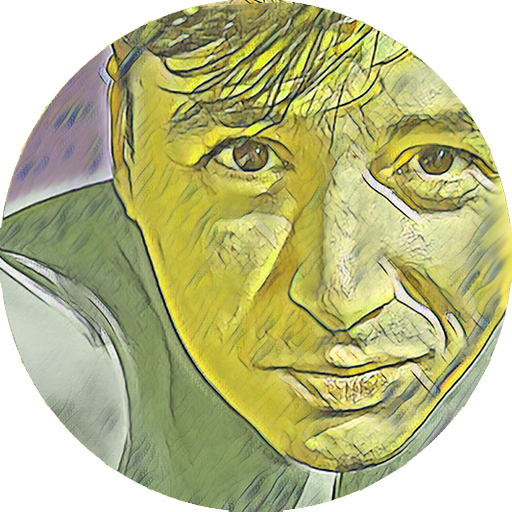
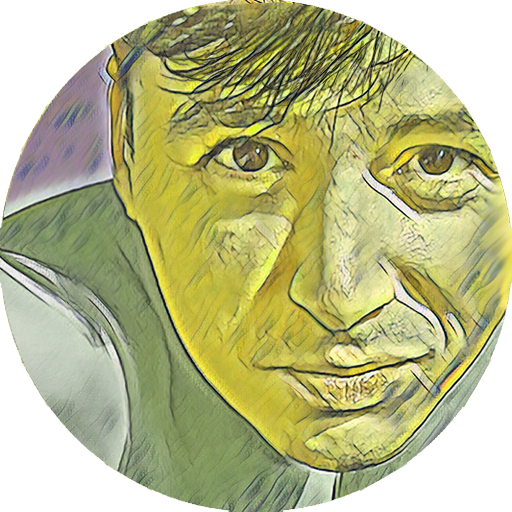
small vis tweaks

Changed region(s): [[0.3125, 0.0, 0.8125, 0.2188]]

diff --git a/css/style.css b/css/style.css
@@ -8,7 +8,7 @@ transition:all .25s ease;-moz-transition:all .25s ease;-webkit-transition:all .2
 
 }#porTitle{display:none;position:absolute;z-index:10;overflow:visible;width:522px;line-height:96px;right:81px;top:42px;padding-left:28px;padding-bottom:0;margin-top:.02em;padding-top:0;height:0;font-family:BebasNeuewebfont,DinBold,ChineseRocksRegular,sans-serif;font-size:156px;letter-spacing:.033em;color:rgb(248,248,248);background:transparent;pointer-events:all!important}#por-TitleBak:hover{margin-left:.002em;margin-top:-.1454em;cursor:default;transform:scale(1.0335,1.28);-webkit-transform:scale(1.0335,1.276);-moz-transform:scale(1.0335,1.276);-ms-transform:scale(1.0335,1.276);-o-transform:scale(1.0335,1.276)}#ttlCnt{overflow:visible;position:relative;float:left;top:16px;left:0;width:0;height:0;pointer-events:all}#ttl{margin-left:-232px;display:block;width:281px;height:171px;background:url(../images/tudor0.png);background-size:281px 171px;opacity:.83;filter:alpha(opacity = 83/*80*/);background-repeat:no-repeat;z-index:100;pointer-events:none}#ttlTextCnt{overflow:visible;position:absolute;z-index:102;float:left;display:block;top:0;width:0;height:0}.upperMaskLCD{position:absolute;z-index:7;top:-64px;right:0;left:-2345px;width:7680px;height:320px;margin-left:-960px;margin-right:-960px}
 
-#lcdBlock{width:50%;height:127%;margin-left:25%;margin-top:-30px;background:-moz-radial-gradient(at 50% 50.5%,ellipse cover,rgb(234,199,192)6%,hsl(310, 56%, 85%)25.5%,hsl(105,74%,81%)36%,hsl(55,100%,84%) 37%,rgb(133,255,167)41%,hsl(166,78%,70%)52%,rgb(171,196,253)61%,hsl(134,100%,88%)62%,rgb(125,255,208)68%);background:-webkit-radial-gradient(center,cover,rgb(234,199,192)6%,hsl(310, 56%, 85%)25.5%,hsl(105,74%,81%)36%,hsl(55,100%,84%) 37%,rgb(133,255,167)41%,hsl(166,78%,70%)52%,rgb(171,196,253)61%,hsl(134,100%,88%)62%,rgb(125,255,208)68%);background:radial-gradient(at 50% 50.5%,rgb(234,199,192)6%,hsl(310, 56%, 85%)25.5%,hsl(105,74%,81%)36%,hsl(55,100%,84%) 37%,rgb(133,255,167)41%,hsl(166,78%,70%)52%,rgb(171,196,253)61%,hsl(134,100%,88%)62%,rgb(125,255,208)68%);background-repeat:no-repeat;background-size:initial;/*background-position-y:93px;*/
+#lcdBlock{width:50%;height:127%;margin-left:25%;margin-top:-30px;background:-moz-radial-gradient(at 50% 50.5%,ellipse cover,rgb(234,199,192)6%,hsl(306, 41%, 83%)25.5%,hsl(105,74%,81%)36%,hsl(55,100%,84%) 37%,rgb(133,255,167)41%,hsl(166,78%,70%)52%,rgb(171,196,253)61%,hsl(134,100%,88%)62%,rgb(125,255,208)68%);background:-webkit-radial-gradient(center,cover,rgb(234,199,192)6%,hsl(306, 41%, 83%)25.5%,hsl(105,74%,81%)36%,hsl(55,100%,84%) 37%,rgb(133,255,167)41%,hsl(166,78%,70%)52%,rgb(171,196,253)61%,hsl(134,100%,88%)62%,rgb(125,255,208)68%);background:radial-gradient(at 50% 50.5%,rgb(234,199,192)6%,hsl(306, 41%, 83%)25.5%,hsl(105,74%,81%)36%,hsl(55,100%,84%) 37%,rgb(133,255,167)41%,hsl(166,78%,70%)52%,rgb(171,196,253)61%,hsl(134,100%,88%)62%,rgb(125,255,208)68%);background-repeat:no-repeat;background-size:initial;/*background-position-y:93px;*/
 	background-position-y: 63px;
     background-position-x: 577px;
     background-repeat-x: repeat;
@@ -20,7 +20,7 @@ transition:all .25s ease;-moz-transition:all .25s ease;-webkit-transition:all .2
 #navCnt{width:100%;height:400px;top:0;left:0;position:absolute}
 
 #navigation:hover span .upperMaskLCD #lcdBlock,#lcdBlock:hover
-{background:rgb(200,225,114);filter:progid:DXImageTransform.Microsoft.gradient(startColorstr='#aa958b',endColorstr='#9d807c',GradientType=1);background:rgb(93,240,192);background:-moz-radial-gradient(at 50% 50.5%,ellipse cover,rgb(234,199,192)6%,hsl(310,41%,85%)25.5%,hsl(105,74%,81%)36%,hsl(60,91%,73%) 37%,rgb(178,239,153)41%,hsl(166,78%,70%)52%,rgb(193,179,247)61%,hsl(134,100%,85%)62%,rgb(125,255,208)68%);background:-webkit-radial-gradient(center,cover,rgb(234,199,192)6%,hsl(310,41%,85%)25.5%,hsl(105,74%,81%)36%,hsl(60,91%,73%) 37%,rgb(178,239,153)41%,hsl(166,78%,70%)52%,rgb(193,179,247)61%,hsl(134,100%,85%)62%,rgb(125,255,208)68%);background:radial-gradient(at 50% 50.5%,rgb(234,199,192)6%,hsl(310,41%,85%)25.5%,hsl(105,74%,81%)36%,hsl(60,91%,73%) 37%,rgb(178,239,153)41%,hsl(166,78%,70%)52%,rgb(193,179,247)61%,hsl(134,100%,85%)62%,rgb(125,255,208)68%);background-repeat:no-repeat;background-size:initial;/*background-position-y:63px;*/width:45%;height:140%;/*margin-left:27.5%;*/
+{background:rgb(200,225,114);filter:progid:DXImageTransform.Microsoft.gradient(startColorstr='#aa958b',endColorstr='#9d807c',GradientType=1);background:rgb(93,240,192);background:-moz-radial-gradient(at 50% 50.5%,ellipse cover,rgb(234,199,192)6%,hsl(306,34%,83%)25.5%,hsl(105,74%,81%)36%,hsl(60,91%,73%) 37%,rgb(178,239,153)41%,hsl(166,78%,70%)52%,rgb(193,179,247)61%,hsl(134,100%,85%)62%,rgb(125,255,208)68%);background:-webkit-radial-gradient(center,cover,rgb(234,199,192)6%,hsl(306,34%,83%)25.5%,hsl(105,74%,81%)36%,hsl(60,91%,73%) 37%,rgb(178,239,153)41%,hsl(166,78%,70%)52%,rgb(193,179,247)61%,hsl(134,100%,85%)62%,rgb(125,255,208)68%);background:radial-gradient(at 50% 50.5%,rgb(234,199,192)6%,hsl(306,34%,83%)25.5%,hsl(105,74%,81%)36%,hsl(60,91%,73%) 37%,rgb(178,239,153)41%,hsl(166,78%,70%)52%,rgb(193,179,247)61%,hsl(134,100%,85%)62%,rgb(125,255,208)68%);background-repeat:no-repeat;background-size:initial;/*background-position-y:63px;*/width:45%;height:140%;/*margin-left:27.5%;*/
 	background-position-y: 62px;
     background-position-x: 350px;
     background-repeat-x: repeat;
@@ -38,7 +38,7 @@ transition:all .25s ease;-moz-transition:all .25s ease;-webkit-transition:all .2
 	margin: 0px;
 	margin-top:-50px;
 	margin-left:-18px;
-	background:url(../images/resMe4.png);background-repeat:no-repeat;background-size:contain;opacity:.93;filter:alpha(opacity = 93);-moz-transform:scaleX(-1);-o-transform:scaleX(-1);-webkit-transform:scaleX(-1);transform:scaleX(-1);filter:FlipH;-ms-filter:FlipH}.contentWrapper{display:inline-block;margin-top:76px;margin-bottom:45px;padding-right:50px;background-color:rgb(254,252,253);background:-moz-linear-gradient(top,rgba(255,255,255,0) 0%,rgba(255,255,255,1) 6%,rgb(254,252,253) 26%,rgb(254,252,253) 100%);background:-webkit-linear-gradient(top,rgba(255,255,255,0) 0%,rgba(255,255,255,1) 6%,rgb(254,252,253) 26%,rgb(254,252,253) 100%);background:linear-gradient(to bottom,rgba(255,255,255,0) 0%,rgba(255,255,255,1) 6%,rgb(254,252,253) 26%,rgb(254,252,253) 100%);background:linear-gradient(to bottom,rgba(255,255,255,0) 0%,rgba(255,255,255,1) 6%,rgb(254,252,253) 20%,rgb(254,252,253) 100%)}.cvContact{position:absolute;top:44px;left:36.5%;margin:0;padding:0;padding-right:8%;padding-left:104px;z-index:10}.cvRow{position:relative;margin-top:16px;padding-left:100px;display:inline-block;float:left;width:100%}.cvColumn{top:-10px;display:inline-block;width:19.318%;min-height:500px;pointer-events:none!important}.cvColumnL{margin:0 0 0 3.725%;left:0}.cvColumnContact{min-height:100px;height:100px;margin-top:20px}.cvColumnContact div{margin-top:-20px}.cvColumnCU{width:35%;position:relative;display:inline-block;text-align:left;padding-left:10%;padding-right:6%;margin-top:46px;height:262px;overflow:hidden}.cvColumnC{width:27.5%;position:relative;display:inline-block;text-align:left;padding-left:10%;padding-right:6%;margin-left:-20px;margin-top:-28px}#cVarDiv{padding-left:1.25%;text-align:left}.cvColumnR{margin:6px 0 0;width:19%;max-width:320px;font-size:14px;float:left;margin-left:20%;pointer-events:none;margin-top:45px;min-height:100px;padding-right:0}.cvTitle{margin:62px 0 22px -66px;font-family:'DezenPro_Regular',sans-serif;text-transform:uppercase;letter-spacing:.05em;font-weight:bold;font-size:25px;display:block;pointer-events:all}.cvTitleRow{width:200px;padding:0;padding-bottom:10px;font-family:'DezenPro_Regular',sans-serif;text-transform:uppercase;letter-spacing:.05em;display:inline-block}.Noodle{font-family:BebasNeuewebfont,"DinBold","big_noodle_titling",sans-serif;margin-left:0}.cvText{margin-left:-20px;margin-right:-20px;padding-top:14px;display:block;pointer-events:all;line-height:1.75em;text-align:justify;text-justify:inter-word}.picMeContainer{margin:0;padding:0;margin-top:23px;margin-left:0px;width:380px;height:195px}
+	background:url(../images/resMe4.gif);background-repeat:no-repeat;background-size:contain;opacity:.93;filter:alpha(opacity = 93);-moz-transform:scaleX(-1);-o-transform:scaleX(-1);-webkit-transform:scaleX(-1);transform:scaleX(-1);filter:FlipH;-ms-filter:FlipH}.contentWrapper{display:inline-block;margin-top:76px;margin-bottom:45px;padding-right:50px;background-color:rgb(254,252,253);background:-moz-linear-gradient(top,rgba(255,255,255,0) 0%,rgba(255,255,255,1) 6%,rgb(254,252,253) 26%,rgb(254,252,253) 100%);background:-webkit-linear-gradient(top,rgba(255,255,255,0) 0%,rgba(255,255,255,1) 6%,rgb(254,252,253) 26%,rgb(254,252,253) 100%);background:linear-gradient(to bottom,rgba(255,255,255,0) 0%,rgba(255,255,255,1) 6%,rgb(254,252,253) 26%,rgb(254,252,253) 100%);background:linear-gradient(to bottom,rgba(255,255,255,0) 0%,rgba(255,255,255,1) 6%,rgb(254,252,253) 20%,rgb(254,252,253) 100%)}.cvContact{position:absolute;top:44px;left:36.5%;margin:0;padding:0;padding-right:8%;padding-left:104px;z-index:10}.cvRow{position:relative;margin-top:16px;padding-left:100px;display:inline-block;float:left;width:100%}.cvColumn{top:-10px;display:inline-block;width:19.318%;min-height:500px;pointer-events:none!important}.cvColumnL{margin:0 0 0 3.725%;left:0}.cvColumnContact{min-height:100px;height:100px;margin-top:20px}.cvColumnContact div{margin-top:-20px}.cvColumnCU{width:35%;position:relative;display:inline-block;text-align:left;padding-left:10%;padding-right:6%;margin-top:46px;height:262px;overflow:hidden}.cvColumnC{width:27.5%;position:relative;display:inline-block;text-align:left;padding-left:10%;padding-right:6%;margin-left:-20px;margin-top:-28px}#cVarDiv{padding-left:1.25%;text-align:left}.cvColumnR{margin:6px 0 0;width:19%;max-width:320px;font-size:14px;float:left;margin-left:20%;pointer-events:none;margin-top:45px;min-height:100px;padding-right:0}.cvTitle{margin:62px 0 22px -66px;font-family:'DezenPro_Regular',sans-serif;text-transform:uppercase;letter-spacing:.05em;font-weight:bold;font-size:25px;display:block;pointer-events:all}.cvTitleRow{width:200px;padding:0;padding-bottom:10px;font-family:'DezenPro_Regular',sans-serif;text-transform:uppercase;letter-spacing:.05em;display:inline-block}.Noodle{font-family:BebasNeuewebfont,"DinBold","big_noodle_titling",sans-serif;margin-left:0}.cvText{margin-left:-20px;margin-right:-20px;padding-top:14px;display:block;pointer-events:all;line-height:1.75em;text-align:justify;text-justify:inter-word}.picMeContainer{margin:0;padding:0;margin-top:23px;margin-left:0px;width:380px;height:195px}
 .itchio{
 	width:28px;
 	display:block;

diff --git a/index.html b/index.html
@@ -454,7 +454,7 @@ background: #e5ede2; #d7dfd4;"    style="background: rgb(255,251,237);"-->
 								<br/>
 								
 								
-								<abbr class="acro" title="Twitter@carnegielemon"><a href="https://twitter.com/CarnegieLemon" rel="nofollow" target="_blank"  class="fa fa-2x fa-twitter socIconUrl" alt="Twitter"style="margin-left: -35px; margin-top:-50px; transform:translate(40px, -48px);font-size: 2.25em;"></a> <small class="CVPrintable" style="transform: translate(37px, -60px);">Twitter @carnegielemon</small></abbr>
+								<abbr class="acro" title="Twitter@carnegielemon"><a href="https://twitter.com/CarnegieLemon/lists" rel="nofollow" target="_blank"  class="fa fa-2x fa-twitter socIconUrl" alt="Twitter"style="margin-left: -35px; margin-top:-50px; transform:translate(40px, -48px);font-size: 2.25em;"></a> <small class="CVPrintable" style="transform: translate(37px, -60px);">Twitter @carnegielemon</small></abbr>
 								
 								<abbr class="acro" title="Deviantart@Spectraljump"><a href="https://www.deviantart.com/spectraljump" rel="nofollow" target="_blank"  class="fa socIconUrl deviantart" alt="Deviantart"style="margin-left: -35px; margin-top:-50px; transform: translate(55px, -7px) scale(1.3,1.3);font-size: 2.25em;"></a> <small class="CVPrintable" style="transform: translate(28px, 10px);">Deviantart@Spectraljump</small></abbr>
 								
